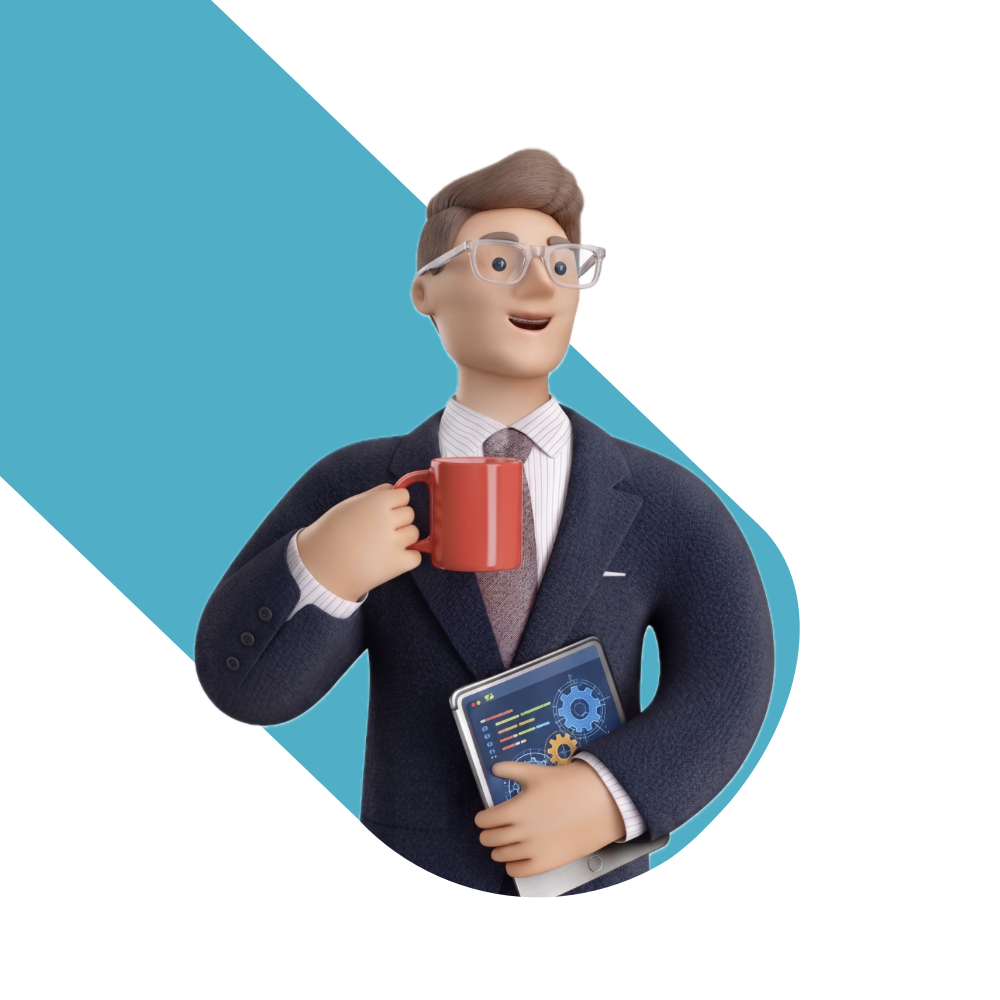
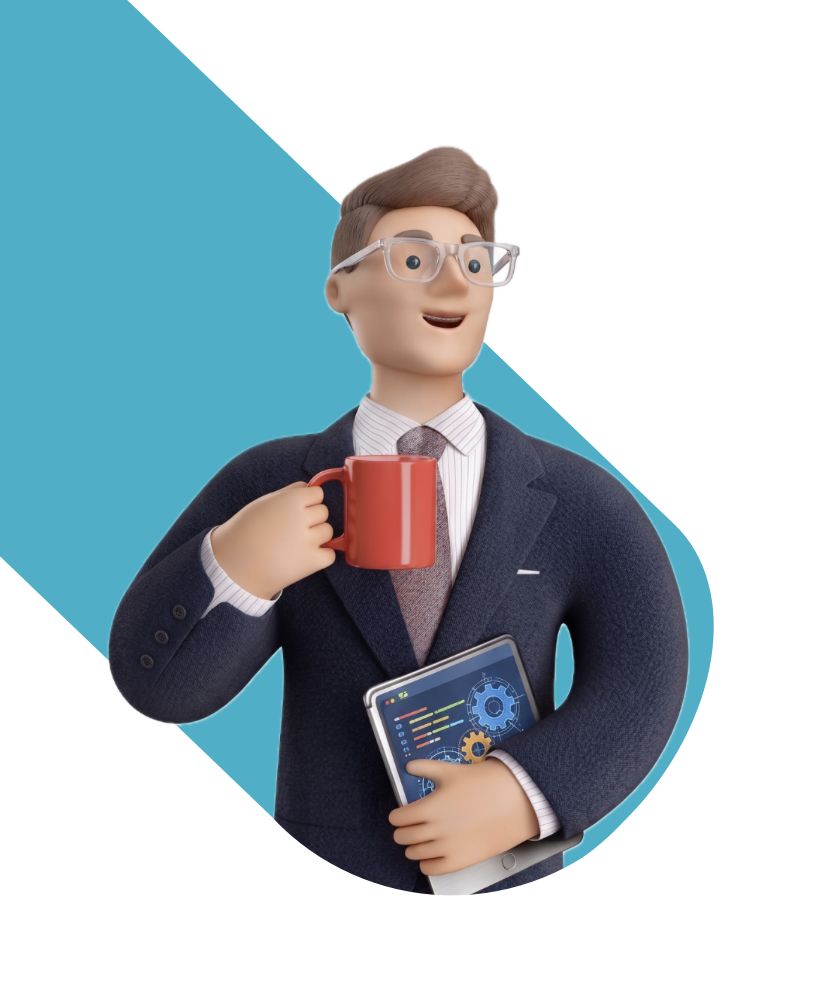
feat(ui): redesign career simulator intro to match premium mockup layout

diff --git a/src/app/features/career-simulator/career-simulator-catalog/career-simulator-catalog.component.scss b/src/app/features/career-simulator/career-simulator-catalog/career-simulator-catalog.component.scss
@@ -1,60 +1,64 @@
 /* =========================================
-   INTRO STATE
+   INTRO STATE (HERO)
    ========================================= */
 .intro-container {
   display: flex;
   align-items: center;
   justify-content: center;
   min-height: 80vh;
-  padding: 40px 20px;
+  padding: 40px 24px;
+  background-color: var(--bg-main); /* Ensure smooth background in both modes */
 }
 
-.intro-content {
-  max-width: 600px;
-  text-align: center;
+.intro-grid {
+  display: grid;
+  grid-template-columns: 1fr;
+  gap: 48px;
+  max-width: 1200px;
+  width: 100%;
+  align-items: center;
+
+  @media (min-width: 992px) {
+    grid-template-columns: 1fr 1fr;
+    gap: 64px;
+  }
+}
+
+/* --- Left Column: Text --- */
+.intro-text {
   display: flex;
   flex-direction: column;
-  align-items: center;
+  align-items: flex-start;
+  text-align: left;
 }
 
-.icon-wrap {
-  width: 80px;
-  height: 80px;
-  border-radius: 50%;
-  background: rgba(7, 177, 201, 0.1);
-  display: flex;
-  align-items: center;
-  justify-content: center;
-  margin-bottom: 24px;
-}
-
-.badge {
-  background: rgba(7, 177, 201, 0.1);
-  color: var(--primary);
-  padding: 6px 16px;
-  border-radius: 20px;
+.badge-pill {
+  background: rgba(7, 177, 201, 0.15);
+  color: #07B1C9;
+  padding: 8px 16px;
+  border-radius: 30px;
   font-size: 13px;
   font-weight: 800;
   text-transform: uppercase;
-  margin-bottom: 16px;
   letter-spacing: 0.5px;
+  margin-bottom: 24px;
 }
 
-.intro-content h2 {
-  font-size: 32px;
-  font-weight: 800;
-  margin: 0 0 32px;
+.hero-title {
+  font-size: 42px;
+  font-weight: 900;
+  margin: 0 0 24px 0;
+  line-height: 1.15;
   color: var(--text-primary);
+
+  @media (min-width: 992px) {
+    font-size: 56px;
+  }
 }
 
-.explanation-card {
-  background: var(--bg-surface);
-  border: 1px solid var(--border-light);
-  border-radius: 16px;
-  padding: 24px 32px;
-  text-align: left;
+.explanation-text {
   margin-bottom: 40px;
-  box-shadow: var(--shadow-sm, 0 4px 15px rgba(0,0,0,0.05));
+  max-width: 500px;
   
   p {
     color: var(--text-secondary);
@@ -69,16 +73,17 @@
 
   strong {
     color: var(--text-primary);
+    font-weight: 700;
   }
 
   .highlight {
-    color: var(--primary);
-    font-weight: 600;
+    color: #07B1C9;
+    font-weight: 700;
   }
 }
 
-.primary-btn-block {
-  display: flex;
+.btn-ver-simuladores {
+  display: inline-flex;
   align-items: center;
   justify-content: center;
   gap: 12px;
@@ -86,22 +91,54 @@
   font-weight: 700;
   padding: 16px 32px;
   border-radius: 12px;
-  width: 100%;
-  max-width: 300px;
-  background: var(--primary);
-  color: white;
+  background: #07B1C9;
+  color: #ffffff;
   border: none;
   cursor: pointer;
-  transition: transform 0.2s, box-shadow 0.2s;
+  transition: all 0.3s cubic-bezier(0.25, 0.8, 0.25, 1);
+  box-shadow: 0 8px 24px rgba(7, 177, 201, 0.25);
 
   &:hover {
-    transform: translateY(-2px);
-    box-shadow: 0 8px 20px rgba(7, 177, 201, 0.3);
+    transform: translateY(-3px);
+    box-shadow: 0 12px 32px rgba(7, 177, 201, 0.35);
+    background: #069db3;
   }
 
   &:active {
-    transform: translateY(1px);
+    transform: translateY(0);
+    box-shadow: 0 4px 12px rgba(7, 177, 201, 0.2);
   }
+}
+
+/* --- Right Column: Image --- */
+.intro-image {
+  position: relative;
+  width: 100%;
+  display: flex;
+  justify-content: center;
+  align-items: center;
+
+  img {
+    width: 100%;
+    max-width: 600px;
+    height: auto;
+    position: relative;
+    z-index: 2;
+    filter: drop-shadow(0 20px 40px rgba(0, 0, 0, 0.08));
+  }
+}
+
+.image-blob-bg {
+  position: absolute;
+  top: 50%;
+  left: 50%;
+  transform: translate(-50%, -50%);
+  width: 90%;
+  height: 90%;
+  background: radial-gradient(circle, rgba(7, 177, 201, 0.2) 0%, rgba(7, 177, 201, 0.05) 50%, transparent 70%);
+  border-radius: 50%;
+  z-index: 1;
+  filter: blur(40px);
 }
 
 /* =========================================

diff --git a/src/app/features/career-simulator/career-simulator-catalog/career-simulator-catalog.component.html b/src/app/features/career-simulator/career-simulator-catalog/career-simulator-catalog.component.html
@@ -1,21 +1,27 @@
 <!-- INTRO STATE -->
 <div class="intro-container" *ngIf="viewState() === 'intro'">
-  <div class="intro-content">
-    <div class="icon-wrap">
-      <app-lucide-icon name="compass" [size]="48" color="var(--primary)"></app-lucide-icon>
-    </div>
-    <div class="badge">Experiencias Inmersivas</div>
-    <h2>Simuladores de Carrera</h2>
-    
-    <div class="explanation-card">
-      <p>Los simuladores te brindan una <strong>pequeña muestra de la realidad</strong> de diversas carreras y profesiones.</p>
-      <p>Su propósito es darte mejor contexto sobre las decisiones y retos que enfrentarías en estas áreas. Además, tus respuestas finales nos ayudarán a obtener una <span class="highlight">mayor precisión</span> en la calibración de tu perfil vocacional STEAM.</p>
+  <div class="intro-grid">
+    <!-- Left Column: Content -->
+    <div class="intro-text">
+      <div class="badge-pill">EXPERIENCIAS INMERSIVAS</div>
+      <h2 class="hero-title">Simuladores<br>de Carrera</h2>
+      
+      <div class="explanation-text">
+        <p>Los simuladores te brindan una <strong>pequeña muestra de la realidad</strong> de diversas carreras y profesiones.</p>
+        <p>Su propósito es darte mejor contexto sobre las decisiones y retos que enfrentarías en estas áreas. Además, tus respuestas finales nos ayudarán a obtener una <span class="highlight">mayor precisión</span> en la calibración de tu perfil vocacional STEAM.</p>
+      </div>
+
+      <button class="btn-ver-simuladores" (click)="startCatalog()">
+        Ver Simuladores
+        <app-lucide-icon name="arrow-right" [size]="20"></app-lucide-icon>
+      </button>
     </div>
 
-    <button class="primary-btn-block" (click)="startCatalog()">
-      Ver Simuladores
-      <app-lucide-icon name="arrow-right" [size]="20"></app-lucide-icon>
-    </button>
+    <!-- Right Column: Illustration -->
+    <div class="intro-image">
+      <div class="image-blob-bg"></div>
+      <img src="assets/simulators-hero.png" alt="Estudiantes STEAM Simuladores">
+    </div>
   </div>
 </div>
 
